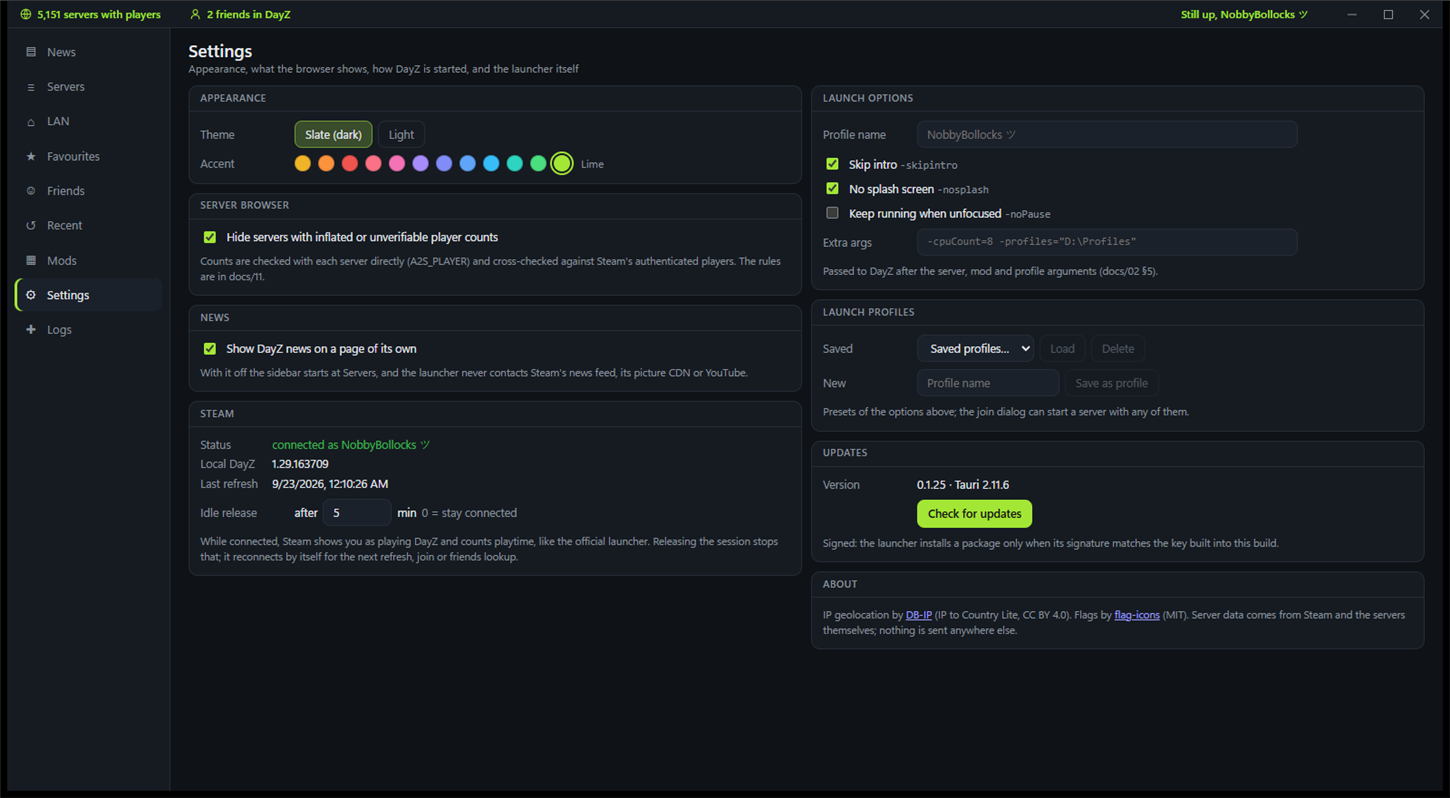
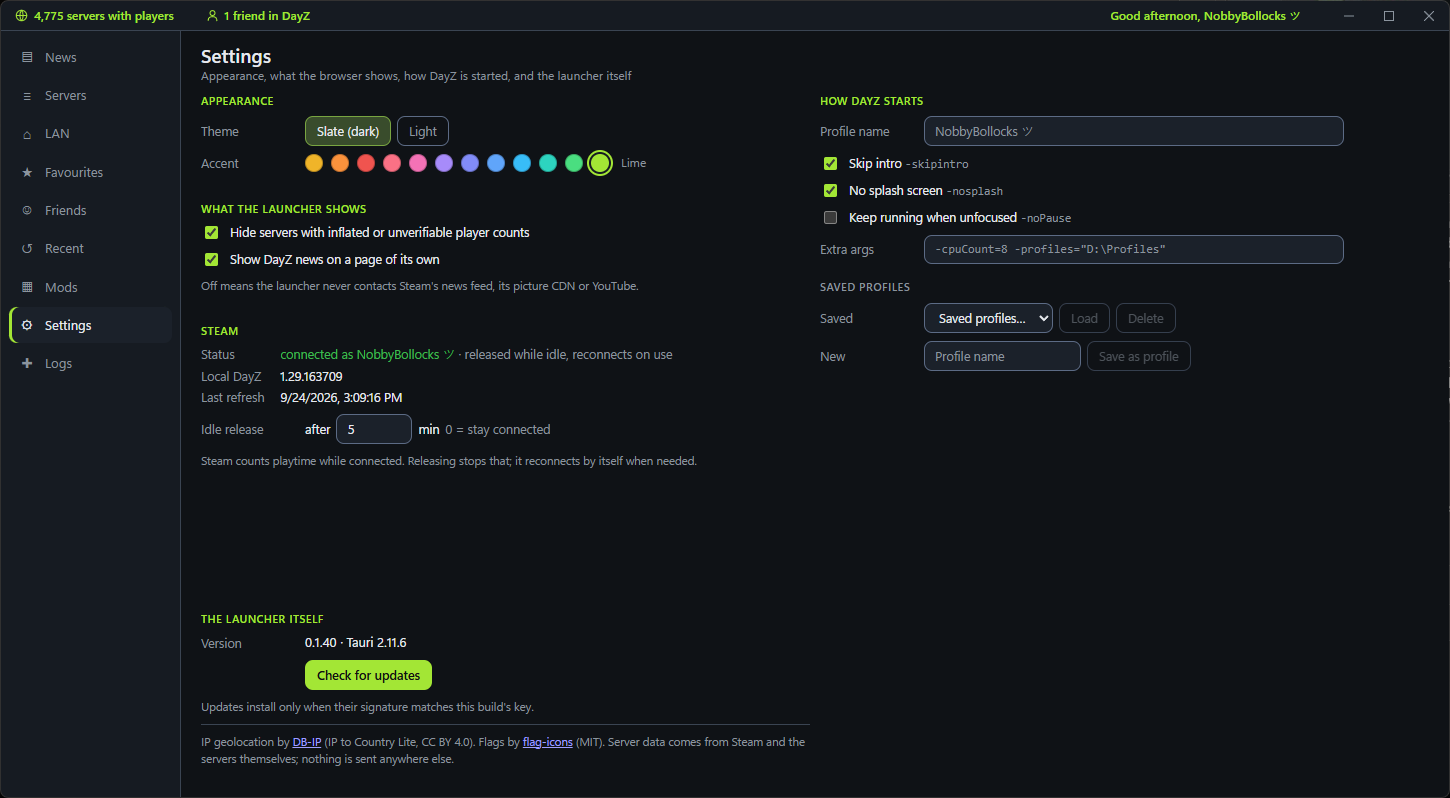
Screenshots retaken from the running 0.1.40
D-227 said they could not be retaken from here, because the app needs
a real Tauri window and cannot be previewed in a browser. True, and
beside the point: the installed app can be driven.

All four are the shipped build at the reference 1450x798 — servers.png,
settings.png, logs.png, home.jpg, and the site's copies of the first and
last. The map column shows names, the filter bar has the PVE/PVP/RP row
and the ping presets, and the details pane shows the sibling-servers
section. The README's "due a retake" note is gone.

Two things the capture had to get right. The UI automation tool hides
windows outside its allowlist in its own screenshots, but a host-side
capture sees the real screen, and this chat window overlaps the
launcher's right edge — the first attempt had a strip of this
conversation in the details pane. The launcher is made topmost for the
instant of the capture and released after. And Windows 11 includes an
invisible 7 px resize border in GetWindowRect, so a capture of the outer
rectangle reaches past the visible window on three sides; the window is
positioned by its DWM extended-frame bounds instead, so the visible
frame is exactly the capture rectangle. The window was put back where
the user had it.

D-231.

diff --git a/docs/09-decisions-log.md b/docs/09-decisions-log.md
@@ -232,3 +232,4 @@ Append-only. Format: `D-nnn · date · decision · evidence (S-ids) · status`. 
 | D-228 | 2026-09-23 | **A broken workflow file does not fail loudly — it fails silently, and two releases went missing.** The three-field version check added in D-221 was written into `release.yml` by a script whose escaping mangled the PowerShell regex: the line was truncated mid-string and its tail landed forty lines away, inside a different step. GitHub could not parse the file, so it could not read the workflow's `name`, so the run appeared in the list as **`.github/workflows/release.yml`**, ended in **0 s**, and offered only “this run likely failed because of a workflow file issue” with **no log to open**. `gh run view --log-failed` answers `log not found`. Both **v0.1.36 and v0.1.37 were tagged, built and pushed, and neither published**, so the updater endpoint went on serving v0.1.35 — which is how it was found at all: a question about whether the Settings button fetches from GitHub, answered by fetching the live manifest and reading `version 0.1.35` back. Two lessons, both acted on. The workflow is restored from its last good commit and the check re-applied without a regex anchor at all (`-split` on the quote reads the same value), validated by parsing the result **before** writing it. And CI now runs `tools/workflow_check.js`, which parses every workflow, requires a top-level `name`, and rejects duplicated step names — the shape a botched edit takes when the YAML still happens to parse. The gate was tested by re-injecting the exact fragment that caused this and watching it fail. `yaml` is a real devDependency now, because a gate that depends on a `--no-save` install is not a gate | the live updater manifest, the failed run's own (absent) log, and the restored file parsed before writing | `node tools/workflow_check.js` green on both workflows; the failure re-injected and caught |
 | D-229 | 2026-09-23 | **Dead code removed, each piece proven dead first.** The rule for this pass was that “nothing seems to use this” is not evidence: every removal names the search that established it, and the audit had to account for the ways this codebase hides a caller — a Rust function reached only through `#[tauri::command]` registration, an event name that exists as a string literal on both sides of the IPC boundary, a CSS class applied through `class:`, a column written to SQLite but never rendered. **Gone:** `Cache::replace_server_mods` (the singular form; only the `_many` version has callers) and `Cache::count` (superseded by `row_counts().servers`, which its three tests now assert against); `ServersStore.step()`, which zero callers reach because `ServerTable` does its own index arithmetic; three store fields written and never read (`fromCache`, `updates.notes`, `news.fetchedAt`) and their writes; the `Avatar` type in `types.ts`, orphaned when friend avatars became raw bytes in D-181, and the `width`/`height` fields plus the `Serialize` derive on the Rust `Avatar`, which serde has not touched since the same change; the `Serialize` derives on `ElevationState`, which is only ever compared and logged; the `launch:started` emit, which nothing has ever listened for; the `core:window:allow-is-maximized` capability, which the title bar never exercises; an unreferenced A2S test fixture; the Logs page's **“Updates” area chip**, which counted zero for ever because the host writes no `update` target, so muting it silenced nothing; and `.btn.large`, which I added speculatively in D-226 one release earlier and never used. **Stale rather than dead**, corrected in place: five comments still describing the Diagnostics view removed in D-168, a doc-comment promising the signed-in user's avatar for a welcome header that went in D-178, a reference to a closed open question, a log-area list naming a target that does not exist, and my own “three sizes, and no fourth” comment sitting above four. **What the audit cleared is worth as much as what it removed**: `info_many` is reached only by an ignored live test, `searchBox.dispose` only as an effect teardown, and all 36 IPC commands, all twelve other events, every Cargo and npm dependency, every SQLite table and index, and every remaining capability have live consumers. | dead-code audit; each removal carries the grep that proved it, and the gates were run between the Rust and front-end batches | `cargo fmt`, clippy `-D warnings`, 74 tests, `npm run check` 206 files, NSIS and workflow checks all green |
 | D-230 | 2026-09-24 | **The search box has not accepted a keystroke since D-159, and nobody typed in it until today.** Reproduced live on 0.1.39 by driving the running app: focus lands, the accent ring shows, and the characters never appear. The D-159 effect — “a reset elsewhere must clear the field and cancel a pending write” — read `typed` inside its condition, which made `typed` a tracked dependency. So every keystroke re-ran it while the store’s search was still empty (the store is written on a 180 ms delay), and it cancelled that write and blanked the field before a frame could paint. The store never received a character, so the condition never became false, so it was permanent. **Proven end to end rather than argued**: the Favourites box, which carried the same effect from D-222 but did *not* cancel its timer, blanked its field the same way — and 180 ms later the timer still wrote the shared filter, so switching to the Servers page showed “c” in its box and the list cut to 16 671 rows. The fix is what the effect always meant: track the store only, read `typed` under `untrack`. Applied to all three boxes; Favourites and LAN now also cancel the pending write, which is the D-159 intent they were missing. The profile-name field on Settings, a plain `bind:value`, accepted typing throughout — which is what localised this to the debounced inputs in one step. **And a false alarm worth its own line**: on the way, the log appeared to have written nothing since the previous day, and an hour went into the write path before the app’s own “Show the file” button opened Explorer at the identical path showing 12.2 KB modified two minutes after start. Every shell reader — Bash and PowerShell, sandbox flag on and off, known-folder API and env var agreeing, no shell-folder redirection — sees a stale copy of the user profile. The tool process tree is behind a copy-on-write layer that `dangerouslyDisableSandbox` does not lift. The log was never broken; facts about the running app now come from its own UI, and that rule is in memory | reproduced and verified live in the installed 0.1.39 through UI automation; the false alarm settled by the app’s own file reveal against three shell readers | `npm run check` 206 files 0 errors; verified live after release |
+| D-231 | 2026-09-24 | **The screenshots were retaken after all — from the running app, by driving it.** D-227 said they could not be, because the app needs a real Tauri window and cannot be previewed in a browser. That was true and beside the point: the *installed* app can be driven. All four (`servers.png`, `settings.png`, `logs.png`, `home.jpg`, plus the site's copies of the first and last) are now the shipped 0.1.40 at the reference 1450×798 — the map column shows names, the filter bar has the PVE/PVP/RP row and the ping presets, and the details pane shows the sibling-servers section. **Two things the capture had to get right.** The UI automation tool hides windows outside its allowlist in *its* screenshots, but a host-side capture sees the real screen, and this chat window overlaps the launcher's right edge — the first attempt had a strip of this conversation in the details pane. The launcher is made topmost for the instant of the capture and released after. And Windows 11 includes an invisible 7 px resize border in `GetWindowRect`, so a capture of the outer rectangle reaches past the visible window on three sides; the window is positioned by its DWM extended-frame bounds instead, so the visible frame is exactly the capture rectangle. The window is put back where it was afterwards | driven live through UI automation, captured host-side, each image opened and checked | four images at 1450×798; README note removed |

diff --git a/README.md b/README.md
@@ -26,7 +26,6 @@
 <br>
 
 <img src="docs/screenshots/servers.png" width="900" alt="The server browser: country flags, verified player counts, filter bar, and a details pane with the server's mods and population history">
-<sub>Screenshots taken at v0.1.25 and due a retake: since then the filter bar gained the PVE/PVP/RP row and ping presets, the map column shows names rather than folder ids, and the details pane lists other servers at the same address.</sub>
 
 </div>
 
